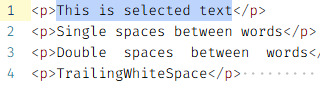
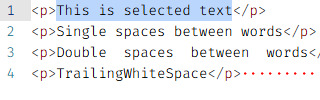
Use the Chrome DevTools theme for the whitespace rendering images
The whitespace dots were hard to see on the selection with the Clouds theme.

Changed region(s): [[0.0, 0.0, 0.0938, 0.21], [0.75, 0.72, 1.0, 0.75]]

diff --git a/.claude/skills/capture-help-images/SKILL.md b/.claude/skills/capture-help-images/SKILL.md
@@ -201,7 +201,9 @@ spec の主な項目（全項目は `lib/capture.mjs` の冒頭）:
   - `scrollbar/horizontal_2.jpg`・`_3.jpg`: `_1.gif` と同じく、高さ199pxのエディタの下に白いページ（`#fff`）41pxを入れ、コード領域の左端から256×240で切り抜く。
   - `scrollbar/vertical_2.jpg`・`_3.jpg`: `_1.gif` と同じく、高さ199pxのエディタの上に白いページ（`#fff`）41pxを入れ、エディタの右端から256×240で切り抜く。
 - **赤い矢印（ルール7）:** `render-line-highlight_1.jpg`〜`_4.jpg` は、カーソルのある2行目の行番号を下から上向きの矢印で指す。設定ごとの違いは行と行番号のハイライトの有無で、特に all と line は行番号の部分だけが違い、矢印がないとどこが違うのか分かりにくいため。4枚とも同じ位置に入れる（ルール1）。
-- **テーマ:** `render-line-highlight_1.jpg`〜`_3.jpg`、`render-whitespace_1.jpg`〜`_5.jpg` は Clouds（`theme: 'clouds'`）にする。元画像は Clouds で撮られており、Light では行のハイライトと空白記号が薄くて見えにくいため。`render-line-highlight_4.jpg`（ハイライトなし）は Light のまま。
+- **テーマ（ルール5）:**
+  - Clouds（`theme: 'clouds'`）: `render-line-highlight_1.jpg`〜`_3.jpg`。元画像は Clouds で撮られており、Light では行のハイライトが薄くて見えにくいため。`render-line-highlight_4.jpg`（ハイライトなし）は Light のまま。
+  - Chrome DevTools（`theme: 'chrome-devtools'`）: `render-whitespace_1.jpg`〜`_5.jpg`。空白記号が赤い点で表示され、選択範囲の上でも見える。Clouds や Light では、選択範囲の背景と空白記号の色が近く、選択範囲の中の点がほとんど見えないため（特に selection の `_3`）。
 
 ### タイミングをそろえた GIF のグループ（ルール2）
 
